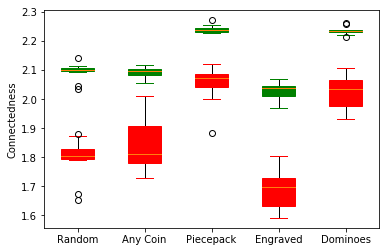
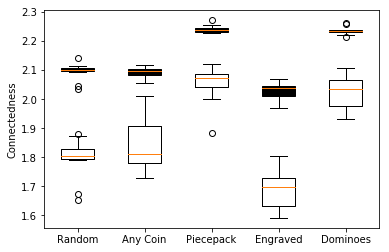
Final updates, more details on results.

diff --git a/bare_adv.tex b/bare_adv.tex
@@ -627,14 +627,13 @@ E-mail: see http://mark.goadrich.com/schedule.html
 % in the abstract or keywords.
 \IEEEtitleabstractindextext{%
 \begin{abstract}
-    Challenges for solitaire puzzle games are typically created offline by humans. Alternately, some games incorporate stochastic setup rules, in which the solver randomly sets up the game board before solving the challenge. However, these setup rules can sometimes generate unsolvable or uninteresting challenges. To better understand this setup process and minimize undesirable challenges, we apply a taxonomy for procedural content generation algorithms to solitaire puzzle games.
-    In particular, for the game Fujisan, we examine how different stochastic challenge generation algorithms affect ease of physical setup, challenge solvability, and challenge difficulty. We find that algorithms can be simple for the solver yet generate solvable and difficult challenges, by constraining randomness through embedding sub-elements of quality challenges into the physical pieces of the game.
-    
+    Challenges for physical solitaire puzzle games are typically designed in advance by humans and limited in number. Alternately, some games incorporate stochastic setup rules, where the human solver randomly sets up the game board before solving the challenge, which can greatly increase the number of possible challenges. However, these setup rules can often generate unsolvable or uninteresting challenges. To better understand these setup processes, we apply a taxonomy for procedural content generation algorithms to solitaire puzzle games.
+    In particular, for the game Fujisan, we examine how different stochastic challenge generation algorithms attempt to minimize undesirable challenges, and we report their affect on ease of physical setup, challenge solvability, and challenge difficulty. We find that algorithms can be simple for the solver yet generate solvable and difficult challenges, by constraining randomness through embedding sub-elements of the puzzle mechanics into the physical pieces of the game.
 \end{abstract}
 
 % Note that keywords are not normally used for peerreview papers.
 \begin{IEEEkeywords}
-Procedural Content Generation, Puzzle Design, Solitaire Games, Solvability
+Board Games, Procedural Content, Monte Carlo Methods, Game Design
 \end{IEEEkeywords}}
 
 
@@ -699,12 +698,11 @@ Procedural Content Generation, Puzzle Design, Solitaire Games, Solvability
 % and "HIS" in caps to complete the first word.
 \IEEEPARstart{F}{ujisan} 
 % Maybe start with describing Fujisan, make most of this background section?
-\footnote{http://www.ludism.org/ppwiki/Fuji-san} is a solitaire game created for the piecepack game system \cite{GAMESYSTEM}. In this game, the solver must find a way to cooperatively move four Shinto Priests to the top of Mt. Fuji through incremental steps up the mountainside. A sample Fujisan challenge is shown in Figure \ref{fig:SampleFujisan}, with two Priests on each edge and the goal summit spaces in gray. 
+\footnote{http://www.ludism.org/ppwiki/Fuji-san} is a physical solitaire puzzle game created for the piecepack game system \cite{GAMESYSTEM}. In this game, a human solver must find a way to cooperatively move four Shinto Priests to the top of Mt. Fuji through incremental steps up the mountainside. A sample Fujisan challenge is shown in Figure \ref{fig:SampleFujisan}, with two Priests on each edge and the goal summit spaces in gray. More details on Fujisan can be found in Section \ref{section:fujisan}.
 
 Challenges for Fujisan are created by the solver, using a random setup process to assemble the game pieces into the mountain. However, this process leads to three natural questions. {\it How easy is the setup process for the solver to execute? Can all such challenges be solved? How difficult are the created challenges? }
-To answer these questions, we compare and contrast multiple setup algorithms and constraints using computational simulations. Fujisan is well-suited for this computational analysis because of its simple rules, small component count, and tractable solve times. 
 
-First, we examine solitaire games through the lens of procedural content generation, where algorithms are used to create game content \cite{PCGSURVEY}. Next, we explore the creation of Fujisan and the piecepack game system, followed by a detailed description of five different challenge setup algorithms. Finally, we evaluate these algorithms with respect to ease of player setup, solvability, and difficulty. We find that algorithms can succeed across all three metrics by carefully incorporating desirable constraints based on the puzzle mechanics of Fujisan. 
+To answer these questions, we first examine solitaire games through the lens of procedural content generation, where algorithms are used to create game content \cite{PCGSURVEY}. Next, we explore the creation of Fujisan and the piecepack game system, followed by a detailed description of five different challenge setup algorithms. We compare and contrast these multiple setup algorithms and constraints using computational simulations. Finally, we evaluate these algorithms with respect to ease of player setup, solvability, and difficulty. We find that algorithms can succeed across all three metrics by carefully incorporating desirable constraints based on the puzzle mechanics of Fujisan. 
 
 %===========================================
 
@@ -730,14 +728,14 @@ Khalifa and Fayek\cite{PUZZLELANG} investigated a combination of construction an
 
 A less-explored variety of puzzles with relation to PCG 
 are solitaire games, for example
-sliding block puzzles \cite{FIFTEEN} (including Rush Hour) \footnote{https://www.thinkfun.com/products/rush-hour/}, 
+sliding block puzzles \cite{FIFTEEN} (including Rush Hour\footnote{https://www.thinkfun.com/products/rush-hour/}), 
 and Hi-Q (generalized peg solitaire) \cite{PEG}. In these games, solvers must manipulate physical pieces as they solve a challenge. Since the initial setup for these games must be executed by the solver, providing the solver with predefined challenges and a solution book is common practice. PCG can also be applied to these games, by again constructing challenges offline and guaranteeing they are solvable, as seen in recent work by van Dijk \cite{RUSHHOUR} and K{\"o}pp \cite{TANGRAM}. 
 
-There are, however, alternative PCG approaches available for physical solitaire games, most popularly demonstrated by the card game Klondike Solitaire. In particular, this game uses an {\it online, stochastic, generate-and-test} PCG algorithm, which is as simple as shuffling the deck of cards at the start of the game. Also of note, having a solution for Klondike is {\it optional}; the {\it test} portion of the generate-and-test algorithm is left to the solver as they play through the game. Wolter \cite{SOLITAIREVARIANTS} developed the Politaire system, and examines the effect of various shuffling algorithms across multiple solitaire card game variations. One variant called Thoughtful Solitaire, played such that all card locations are known to the solver at the beginning of the game, has been separately found to be solvable between 82\% and 91.44\% \cite{THOUGHTFUL}. Also falling within this classification is BoxOff, a 2D token removal puzzle, where Browne and Maire investigated game parameters using Monte Carlo simulation \cite{MCPUZZLE}.
+There are, however, alternative PCG approaches available for physical solitaire games, most popularly demonstrated by the card game Klondike Solitaire. In particular, this game uses an {\it online, stochastic, generate-and-test} PCG algorithm, which is as simple as shuffling the deck of cards at the start of the game. Also of note, having a solution for Klondike is {\it optional}; the {\it test} portion of the generate-and-test algorithm is left to the solver as they play through the game. Wolter \cite{SOLITAIREVARIANTS} developed the Politaire system, and examines the effect of various shuffling algorithms across multiple solitaire card game variations. One variant called Thoughtful Solitaire, played such that all card locations are known to the solver at the beginning of the game, has been separately found to have between 82\% and 91.44\% of setups are solvable \cite{THOUGHTFUL}. Also falling within this classification is BoxOff, a 2D token removal puzzle, where Browne and Maire investigated game parameters using Monte Carlo simulation \cite{MCPUZZLE}.
 \noindent
 
 %====================================================================================
-\section{Fujisan}
+\section{Fujisan} \label{section:fujisan}
 
 \begin{figure}[t]
 \centering
@@ -819,8 +817,8 @@ Here we explore a progression of constraints that create multiple variant algori
 \textbf{Random}                   & $10^{18}$                                  & 0 to 24                                                    & yes                                                      & yes                                                            \\ \hline
 \textbf{Any Coin}                 & $10^{14}$ & exactly 4                                                  & yes                                                      & yes                                                            \\ \hline
 \textbf{Piecepack}                & $10^{10}$                                             & exactly 4                                                  & no                                                       & yes                                                            \\ \hline
-\textbf{Engraved}                 & $10^{7}$                                                 & 0 to 7                                                     & yes                                                      & only at summit                                                 \\ \hline
-\textbf{Domino}                   & $10^{5} $                                                   & 2 to 5                                                     & no                                                       & no                                                             \\ \hline
+\textbf{Engraved}                 & $10^{13}$                                                 & 0 to 7                                                     & yes                                                      & only at summit                                                 \\ \hline
+\textbf{Domino}                   & $10^{13} $                                                   & 2 to 5                                                     & no                                                       & no                                                             \\ \hline
 \end{tabular}
 \end{table*}
 
@@ -833,7 +831,7 @@ First, we examine a purely random process as a baseline algorithm for comparison
   Take one die from the piecepack. For each space, roll the die and place a coin that matches the number rolled on the space.
 \end{quote}
 
-With 24 spaces and six options for each space, this algorithm can generate $\frac{6^{24}}{4} \approx 10^{18}$ possible challenges. We divide by 4 here and in subsequent calculations to account for Fujisan challenges displaying rotational, horizontal, and vertical symmetry. Each subsequent algorithm will constrain this randomness in some way, eliminating possible challenges from consideration.
+With 24 spaces and six options for each space, this algorithm can generate $\frac{6^{24}}{4} \approx 10^{18}$ possible challenges. We divide by 4 here and in subsequent calculations to account for Fujisan challenges displaying rotational, horizontal, and vertical symmetry, however, this is slightly underestimates due to some challenges displaying more than one symmetry. Each subsequent algorithm will constrain this randomness in some way, eliminating possible challenges from consideration.
 
 \subsection{Any Coin}
 
@@ -845,8 +843,8 @@ Next, we examine two algorithms that make use of the piecepack coin components t
   
 \end{quote}
 
-Since each of the numbers 0 to 5 are present four times (once per suit), we can use the multinomial theorem to determine this method can create
-$\frac{24!}{4!^{7}} \approx 10^{14}$ possible challenges. 
+Since each of the numbers 0 to 5 are present four times (once per suit), we can use the multinomial theorem to determine that this method can create
+$\frac{24!}{4!^{6}4} \approx 10^{14}$ possible challenges. 
 
 However, if two 0 coins are placed in same row, then it becomes impossible to move a Priest onto that row. This creates holes in our challenges and limits the number of solvable setups. 
 More importantly, when both spaces of either of the summit columns contain 0s, the challenge becomes impossible to solve.
@@ -883,7 +881,7 @@ numbers onto the spaces. Here, we explore creating tiles with every possible pai
   Shuffle the tiles face-down. Then assemble the mountain using face-up tiles, using six for the bottom row, five for the next row, then four, then three, and finally two. The summit will be the center four spaces.
 \end{quote}
 
-This further constrains each pair of numbers to appear only once in the puzzle, except for the top two tiles. There are 20 possible tiles, and only 10 of them can be seen once the puzzle is constructed, as shown in Figure \ref{fig:tileexample}. 15 of these tiles have two possible orientations, for a total of $\sum_{i = 5}^{10}\frac{{15 \choose i}\binom{5}{5 - i}2^{i}}{4} \approx 10^{7}
+This further constrains each pair of numbers to appear only once in the puzzle, except for the top two tiles. There are 20 possible tiles, and only 10 of them can be seen once the puzzle is constructed, as shown in Figure \ref{fig:tileexample}. 15 of these tiles have two possible orientations, for a total of $\sum_{i = 5}^{10}\frac{{15 \choose i}\binom{5}{10 - i}2^{i}10!}{4} \approx 10^{13}
 $ possible challenges.
 
 \begin{figure}[b]
@@ -894,12 +892,6 @@ $ possible challenges.
 
 
 \subsection{Dominoes}
-\begin{figure}[b]
-\includegraphics[width=8.8cm]{graphics/dominoexample.png}
-\caption{A sample Fujisan challenge from the Dominoes algorithm.}
-\label{fig:dominoexample}
-\end{figure}
-
 Furthermore, we can look at alternate existing pieces with which to construct Fujisan challenges. A standard double-six domino set includes 28 dominoes. If we eliminate those dominoes that include a 6, along with all doubles, we are left with 15 dominoes. 
 
 \begin{quote}
@@ -908,28 +900,35 @@ Furthermore, we can look at alternate existing pieces with which to construct Fu
 \end{quote}
 
 This constraint is similar to the Engraved Tiles algorithm, but with a subset of the value pairs, thus a different probability on their selection.  Additionally, unlike the Engraved Tiles algorithm, the summit values are distinct from the two steps closest the summit.
-With 15 possible dominoes, only 12 of them are used in the challenge, as shown in Figure \ref{fig:dominoexample}. Each of these dominoes has two possible orientations, for a total of $\frac{{15 \choose 12}2^{12}}{4} \approx 10^{5}$ possible challenges. 
+With 15 possible dominoes, only 12 of them are used in the challenge, as shown in Figure \ref{fig:dominoexample}. Each of these dominoes has two possible orientations, for a total of $\frac{{15 \choose 12}2^{12}12!}{4} \approx 10^{13}$ possible challenges. 
+
+\begin{figure}[b]
+\includegraphics[width=8.8cm]{graphics/dominoexample.png}
+\caption{A sample Fujisan challenge from the Dominoes algorithm.}
+\label{fig:dominoexample}
+\end{figure}
+
 
 
 \section{Evaluation}
 
  \noindent
-To evaluate each of the algorithms discussed above, we encoded a Fujisan challenge generator using C\#, along with an A* solver for Fujisan challenges. Our admissible heuristic for A* is the number of empty spaces on the summit. For each PCG algorithm, we generated 1000 random challenges, divided into 10 trials of 100 challenges. 
+To evaluate each of the algorithms discussed above, we encoded a Monte Carlo Fujisan challenge generator using C\#, along with an A* solver for Fujisan challenges. Our admissible heuristic for A* is the number of empty spaces on the summit. For each PCG algorithm, we generated 1000 random challenges, divided into 10 trials of 100 challenges. 
 
 We will use three criteria to quantify each of these variants:
 {\bf ease of physical setup}, {\bf solvability}, and {\bf difficulty}.  First, our stochastic 
-generation algorithm must be easy for the solver to execute without complicated lookup tables or large numbers of components. Next, we judge a PCG algorithm to be working well when a high percentage of generated games are solvable by our A* solver. Beyond solvabilty, we also wish for PCG algorithms to have a strong inclination to generate interesting and difficult challenges for the solver. 
+generation algorithm must be easy for the solver to execute without complicated lookup tables or large numbers of components. Next, we judge a PCG algorithm to be working well when a high percentage of generated games are solvable by our A* solver. Beyond solvability, we also wish for PCG algorithms to have a strong inclination to generate interesting and difficult challenges for the solver. 
 
 For each generated challenge in our trials, we recorded if the challenge was solvable, and if so, we also recorded the minimum solution length found with our A* solver. The code used for our simulations is available on Github \footnote{http://github.com/mgoadric/fujisan}. 
 
 \subsection{Ease of Physical Setup}
 
-The {\bf Pure Random} algorithm rates very low on the ease of setup metric when considering the piecepack components. There could be many cases when a number was selected more than 4 times, thus exhausting the coins of one piecepack. Ultimately, 6 piecepacks would be needed for extreme cases when the same number is rolled for every space. Also, rolling a die 24 times at the beginning of a challenge quickly becomes tedious. 
+The {\bf Pure Random} algorithm rates very low on the ease of setup metric when considering the piecepack components. There could be many cases when a number was selected more than 4 times, thus exhausting the coins of one piecepack. Ultimately, six piecepacks would be needed for extreme cases when the same number is rolled for every space. Also, rolling a die 24 times at the beginning of a challenge quickly becomes tedious. 
 
 Alternately, {\bf Any Coin} is much more straightforward, since the coins can be shuffled on the table quickly, then added one by one to the board spaces. The {\bf piecepack} constraint, while equivalent in the number of actual coin placements, is a little more difficult to setup by the solver. Tracking the ordering of suits and following the pattern can slow down a solver setup, but this ordering can be quickly memorized on repeated play.
 
 {\bf Engraved Tiles} shows a marked improvement in physical setup ease.
-The numbers are already on the tiles, so the challenge is created in the process of building the mountain; no additional algorithm is needed. Likewise with {\bf Dominoes}, the challenge is again encoded in the board setup, and with less tiles, this setup is even less fiddly.
+The numbers are already on the tiles, so the challenge is created in the process of building the mountain; no additional algorithm is needed. Likewise with {\bf Dominoes}, the challenge is again encoded in the board setup, and with less tiles, this setup is even more elegant.
 
 \subsection{Solvability}
 
@@ -939,7 +938,13 @@ The numbers are already on the tiles, so the challenge is created in the process
 \label{fig:strategycomp}
 \end{figure}
 
-Figure \ref{fig:strategycomp} shows a box-and-whisker plot for the five PCG algorithms, ordered from left to right by their mean solvability, marked with a green triangle. This ordering also matches the progression of constraints and reduction of the possible challenge space. Each method produces a healthy number of solvable challenges; every trial was above 75\% solvable. Individual t-tests using a p-value of 0.05 demonstrate that {\bf Pure Random} is significantly less solvable than all others, followed by {\bf Any Coin}. 
+Figure \ref{fig:strategycomp} shows the distribution of solvability for the five PCG algorithms across the 10 trials in a box-and-whisker plot. The mean for each method is marked with a green triangle. Each method produces a healthy number of solvable challenges; every trial was above 75\% solvable. {\bf Pure Random} and {\bf Any Coin} have the lowest mean value for solvability and these results are significantly lower than the other three algorithms, which is confirmed by t-tests using a p-value of 0.05. 
+
+Within the top three algorithms, only {\bf Dominoes} is statistically higher than {\bf piecepack}. To understand these results, we first explore the connections between steps in a challenge. We say step $A$ is connected to step $B$ in Fujisan if there is a move available according to rule 2 from $B$ to $A$. While critical to solving most challenges, we simplify our calculation and ignore the impact of intermediate Priests between $B$ and $A$. 
+
+Figure \ref{fig:connected} shows the average step connectedness within a challenge for each setup algorithm, differentiating solvable challenges in black from unsolvable challenges in white. We can see a large divide between solvable and unsolvable challenges on this metric for each algorithm, with higher connectivity always related to higher solvability. Also, as shown in Table \ref{table_stats}, both {\bf piecepack} and {\bf Dominoes} require that each step has two unique values. In these two algorithms, this uniqueness constraint strongly increases the connectedness of both solvable and unsolvable challenges, but the divide remains intact.
+
+Second, for {\bf Engraved Tiles} and {\bf Dominoes}, repetition of pairs of values on a step are either restricted to the summit or not allowed elsewhere in the challenge. This causes the connections between steps to be more distributed and bind the puzzle together as a whole, instead of breaking apart into disjoint pieces. {\bf Dominoes} combines two constraints to create well-connected and well-distributed challenges.
 
 \begin{figure}[t]
 \includegraphics[width=8.8cm]{graphics/connectedness.png}
@@ -948,29 +953,22 @@ Solvable challenges shown in green, and unsolvable challenges shown in red.}
 \label{fig:connected}
 \end{figure}
 
-Within the top three algorithms, only {\bf Dominoes} is statistically higher than {\bf piecepack}. As shown in Table \ref{table_stats}, both of these strategies require that each step has two unique values.
-To understand these results, we explore the relationships between this constraint and connections between steps in a challenge. We say step $A$ is connected to step $B$ in Fujisan if there is a move available according to rule 2 from $B$ to $A$. While critical to solving most challenges, we simplify our calculation and ignore the impact of intermediate Priests between $B$ and $A$. 
-
-Figure \ref{fig:connected} shows the average step connectedness within a challenge for each setup algorithm, differentiating solvable challenges in green from unsolvable challenges in red. We can see a large divide between solvable and unsolvable challenges on this metric, with higher connectivity related to solvability. For {\bf piecepack} and {\Dominoes}, the uniqueness constraint strongly increases the connectedness of both solvable and unsolvable challenges, but the divide remains intact.
-
-Second, for {\bf Dominoes} and {\bf Engraved Tiles}, repetition of pairs of values on a step are either restricted to the summit or not allowed elsewhere in the challenge. This causes the connections between steps to be more likely to overlap and bind the puzzle together as a whole, instead of breaking apart into disjoint pieces. { \bf Dominoes} appears to combine these two constraints to create well-connected and well-distributed challenges.
 
 \subsection{Difficulty}
 
-Browne and Maire \cite{MCPUZZLE} propose a metric where a solitaire game is interesting if the difference in solvability between an AI solver and a random solver is high. However, across all of our PCG algorithms implemented for Fujisan, we found a random solver would win less than 0.3\%. We define here challenge difficulty to be the minimum number of moves requires to solve, and are interested in the distribution of challenge difficulties generated by each algorithm. We compare here the median level of challenge difficulty generated by each algorithm. The shortest possible solution to a Fujisan challenge requires eight moves, while 
+Browne and Maire \cite{MCPUZZLE} propose a metric where a solitaire game is interesting if the difference in solvability between an AI solver and a random solver is high. However, across all of our PCG algorithms implemented for Fujisan, we found a random solver would win less than 0.3\%, making their metric equivalent to solvability. We define here challenge difficulty to be the minimum number of moves required to solve the challenge, and are interested in the distribution of challenge difficulties generated by each algorithm. We compare here the median level of challenge difficulty generated by each algorithm. The shortest possible solution to a Fujisan challenge requires eight moves, while 
 the longest-known constructed challenge involves 62 moves\footnote{http://www.ludism.org/ppwiki/Fuji-san\#Heading9}.
 
 \begin{figure}[t]
 \centering
 \includegraphics[width=8.8cm]{graphics/standalonediff.png}
-\caption{Effect of challenge generation algorithms on difficulty.}
+\caption{Histograms showing the effect of challenge generation algorithms on difficulty.}
 \label{fig:difficultycomp}
 \end{figure}
 
-Looking at the results in Figure \ref{fig:difficultycomp}, our algorithms appear to follow a Poisson distribution rather than a normal distribution.
-Thus, we employ a Kruskal-Wallis H-test \cite{KRUSKAL} to determine if the median difficulty of our five algorithms is the same. We reject this null hypothesis very strongly, with a p-value of $1.9 x 10^{-8}$.
+Figure \ref{fig:difficultycomp} shows histograms of the minimum solution length for solvable challenges, pooled across all trials for each algorithm. The median is denoted with a dotted line. Our algorithms appear to follow a Poisson distribution rather than a normal distribution, since the smallest possible solution length for any challenge is 8, and the maximum solution length is currently unbounded. We employ a Kruskal-Wallis H-test \cite{KRUSKAL} to determine if the median difficulty of our five algorithms is statistically the same, and we reject this null hypothesis very strongly, with a p-value of $1.9 \times 10^{-8}$.
 
-The algorithm responsible for this result is {\bf Engraved Tiles}. We can see a strong tendency to have shorter solution lengths, with 9.5\% of challenges having a solution length of eight or nine, whereas for {\bf Domino}, this is true for only 3\% of challenges. In {\bf Engraved Tiles}, there are five tiles that contain a 0; since there will be ten total tiles hidden, on average a challenge will contain 2.5 zeros. It appears that 0 spaces are one part of what makes Fujisan challenges interesting, since having fewer 0 spaces decreases the challenge difficulty.
+The algorithm responsible for this result is {\bf Engraved Tiles}. We can see a strong tendency to have shorter solution lengths, with almost 10\% of challenges having a solution length of eight or nine, whereas for {\bf Domino}, this is true for only 3\% of challenges. In {\bf Engraved Tiles}, there are five tiles that contain a 0 value; since there will be ten total tiles hidden, on average a challenge will contain 2.5 zeros values. It appears that 0 values are one part of what makes Fujisan challenges interesting, since having fewer 0 values decreases the challenge difficulty.
 
 
 \subsection{Summary}
@@ -1200,8 +1198,8 @@ Finally, are there general methods that allow solvers to {\it construct} challen
 % or if you just want to reserve a space for a photo:
 \newpage 
 
-\begin{IEEEbiography}[{\includegraphics[width=1in,height=1.25in,clip,keepaspectratio]{graphics/markpic.png}}]{Mark Goadrich}
-is an Associate Professor of Computer Science at Hendrix College in Conway, AR.
+\begin{IEEEbiography}[{\includegraphics[width=1in,height=1.25in,clip,keepaspectratio]{graphics/markpic.png}}]{Mark Goadrich} earned an A.B. in Mathematics and Philosophy at Kenyon College, and a M.S. and Ph.D. in Computer Sciences from the University of Wisconsin - Madison.
+He is currently an Associate Professor of Computer Science at Hendrix College in Conway, AR.
 \end{IEEEbiography}
 
 % if you will not have a photo at all:
